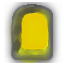
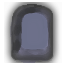
self-destructing flies

diff --git a/elements.py b/elements.py
@@ -4,10 +4,8 @@ from typing import Optional
 from boulder_dash import Game, Cave, Player
 from collections import namedtuple
 
-Vector = namedtuple('Vector', 'x y')
-
 class Element(arcade.Sprite):
-    TILE_SIZE = 64
+    TILE_SIZE = 16 # 64
     TILE_SCALE = Game.TILE_SIZE / TILE_SIZE
     DEFAULT_SPEED = 16 # squares per second
 
@@ -31,6 +29,9 @@ class Element(arcade.Sprite):
     def compute_pos(self) -> None:
         self.center_x = Element.TILE_SIZE * Element.TILE_SCALE * (self.x + 0.5)
         self.center_y = Element.TILE_SIZE * Element.TILE_SCALE * (self.y + 0.5)
+
+    def neighbor(self, ix:int, iy:int) -> Optional['Element'] :
+        return self.game.cave.at(self.x + ix, self.y + iy)
 
     def can_move(self, ix: int, iy: int)  -> bool:
         return self.game.cave.can_move(self, self.x + ix, self.y + iy)
@@ -83,7 +84,7 @@ class Ore(Element):
         self.try_roll(ix) or self.try_roll(-ix)
 
     def try_roll(self, ix: int) -> bool:
-        below = self.game.cave.at(self.x, self.y -1)
+        below = self.neighbor(0, -1)
         return (isinstance(below, Ore) or isinstance(below, Wall)) and self.can_move(ix, -1) and self.try_move(ix, 0)
 
 class Boulder(Ore):
@@ -101,9 +102,10 @@ class Diamond(Ore):
        self.game.cave.to_collect -= 1
 
     def tick(self) -> None:
-        shine = random.randint(1, 40)
-        if shine > 3: shine = 0
-        self.set_skin(shine)
+        if random.randint(0,2) == 1:
+            shine = random.randint(1, 40)
+            if shine > 3: shine = 0
+            self.set_skin(shine)
         super().tick()
 
 class Explosion(Element):
@@ -116,9 +118,9 @@ class Explosion(Element):
 class Entry(Element):
     def __init__(self, game: Game, x: int, y: int) -> None:
         super().__init__(game, x, y, 0)
-        self.add_skin(MetalWall.__name__, 0)
+        self.add_skin(Exit.__name__, 1)
         self.set_skin(0)
-        self.wait = 0.5 # seconds
+        self.wait = 0.75 # seconds
         self.player = self.game.players[self.game.cave.nb_players]
         self.game.cave.nb_players += 1
 
@@ -128,13 +130,12 @@ class Entry(Element):
 
 class Exit(Element):
     def __init__(self, game: Game, x: int, y: int) -> None:
-        super().__init__(game, x, y)
-        self.add_skin(MetalWall.__name__, 0)
-        self.opened = False ; self.set_skin(1)
+        super().__init__(game, x, y, 2)
+        self.opened = False
 
     def tick(self) -> None:
         if self.game.cave.is_complete() :
-            self.opened = True ; self.set_skin(0)
+            self.opened = True ; self.set_skin(1)
 
     def can_be_penetrated(self, by: Element) -> bool: 
         return isinstance(by, Miner) and self.opened
@@ -142,40 +143,40 @@ class Exit(Element):
     def on_destroy(self) -> None: self.game.cave.set_status(Cave.SUCCEEDED)
 
 class Character(Element):
-    def __init__(self, game: Game, x: int, y: int, n: int = 1) -> None: super().__init__(game, x, y, n)
+    def __init__(self, game: Game, x: int, y: int, n: int = 1) -> None:
+       super().__init__(game, x, y, n)
+       self.dir = (0, 0)
+
     def can_be_penetrated(self, by: Element) -> bool: return (isinstance(by, Ore) and by.moving)
     def on_destroy(self) -> None: self.game.cave.explode(self.x, self.y)
 
 class Miner(Character):
     def __init__(self, game: Game, x: int, y: int, player: Player) -> None:
         super().__init__(game, x, y)
-        self.pushing = 0
+        self.pushing = None
         self.player = player
 
     def can_be_penetrated(self, by: Element) -> bool:
-        return super().can_be_penetrated(by) or isinstance(by, Firefly)
+        return self.game.cave.status == Cave.IN_PROGRESS \
+            and super().can_be_penetrated(by) or isinstance(by, Firefly)
 
     def on_moved(self, into: Optional[Element]) -> None:
         if isinstance(into, Diamond): self.player.score += 1
-        self.pushing = 0
+        self.pushing = None
 
     def tick(self) -> None:
-        if self.player.pressed_left():  
-            if not self.try_move(-1, 0): self.try_push(-1)
-        elif self.player.pressed_right():
-            if not self.try_move(+1, 0): self.try_push(+1)
-        elif self.player.pressed_up():
-            self.try_move(0, +1)
-        elif self.player.pressed_down():
-            self.try_move(0, -1)
+        if self.game.cave.status == Cave.IN_PROGRESS:
+            self.dir = self.player.get_direction()
+            if self.dir == (0,0): return
+            if not self.try_move(*self.dir): self.try_push()
     
-    def try_push(self, ix: int) -> bool:
-        pushed = self.game.cave.at(self.x + ix, self.y)
-        if not isinstance(pushed, Boulder): return False
-        if self.pushing != ix: 
-           self.pushing = ix; self.wait = 1 / self.speed
-           return False
-        if pushed.try_move(ix, 0): return self.try_move(ix, 0)
+    def try_push(self) -> bool:
+        if self.dir == (-1,0) or self.dir == (+1,0):
+            pushed = self.neighbor(*self.dir)
+            if isinstance(pushed, Boulder):
+                if self.pushing == self.dir:
+                    if pushed.try_move(*self.dir): return self.try_move(*self.dir)
+                else: self.pushing = self.dir; self.wait = 1 / self.speed
         return False
 
     def on_destroy(self) -> None:
@@ -185,26 +186,23 @@ class Miner(Character):
 class Firefly(Character):
     def __init__(self, game: Game, x: int, y: int) -> None:
         super().__init__(game, x, y, 2)
-        self.speed /= 2 ; self.dir = Vector(-1, 0)
+        self.speed /= 2 ; self.dir = (-1, 0)
 
     def can_be_penetrated(self, by: Element) -> bool:
         return super().can_be_penetrated(by) or isinstance(by, Miner)
 
     def tick(self) -> None:
         self.next_skin()
-        # if in wide 3x3 open area, go straight
-        if self.can_move(-1,0) and self.can_move(1,0) and self.can_move(0,-1) and self.can_move(0,1) \
-           and self.can_move(-1,-1) and self.can_move(1,-1) and self.can_move(-1,1) and self.can_move(1,1):
-               self.try_move(*self.dir)
+        (ix,iy) = self.dir
+        # if adjacent to a miner, self-destruct
+        if isinstance(self.neighbor(-1,0), Miner) or isinstance(self.neighbor(+1,0), Miner) or \
+           isinstance(self.neighbor(0,-1), Miner) or isinstance(self.neighbor(0,+1), Miner):
+              self.game.cave.replace(self, None)
         # else follow the right wall...
-        elif self.try_move(self.dir.y, -self.dir.x):
-            self.dir = Vector(self.dir.y, -self.dir.x)
-        elif self.try_move(*self.dir):
-            pass # go straight
-        elif self.try_move(-self.dir.y, self.dir.x):
-            self.dir = Vector(-self.dir.y, self.dir.x)
-        elif self.try_move(-self.dir.x, -self.dir.y):
-            self.dir = Vector(-self.dir.x, -self.dir.y)
+        elif self.try_move(iy, -ix):  self.dir = (iy, -ix)
+        elif self.try_move(ix, iy):   pass # go straight
+        elif self.try_move(-iy, ix):  self.dir = (-iy, ix)
+        elif self.try_move(-ix, -iy): self.dir = (-ix, -iy)
 
 class Butterfly(Firefly):
     def __init__(self, game: Game, x: int, y: int) -> None:

diff --git a/boulder_dash.py b/boulder_dash.py
@@ -1,5 +1,5 @@
 import arcade
-from typing import Optional
+from typing import Optional, Tuple
 from elements import *
 from caves import *
 from collections import namedtuple
@@ -14,10 +14,12 @@ class Player:
             Player.Controls(arcade.key.Z, arcade.key.Q, arcade.key.S, arcade.key.D) if id == 1 else \
             Player.Controls(arcade.key.I, arcade.key.J, arcade.key.K, arcade.key.L)
     
-    def pressed_up(self) -> bool: return self.controls.up in self.game.keys
-    def pressed_left(self) -> bool: return self.controls.left in self.game.keys
-    def pressed_down(self) -> bool: return self.controls.down in self.game.keys
-    def pressed_right(self) -> bool: return self.controls.right in self.game.keys
+    def get_direction(self) -> Tuple[int,int]:
+        if self.controls.up in self.game.keys: return (0,+1)
+        if self.controls.left in self.game.keys: return (-1,0)
+        if self.controls.down in self.game.keys: return (0,-1)
+        if self.controls.right in self.game.keys: return (+1,0)
+        else: return (0,0)
 
     def kill(self) -> None:
         self.life -= 1
@@ -60,12 +62,12 @@ class Cave:
 
     def set_status(self, status) -> None:
         self.status = status
-        self.wait = 0.5 # seconds
+        self.wait = 0.25 # seconds
 
     def within_bounds(self, x: int ,y: int) -> bool:
         return x >= 0 and y >= 0 and x < Cave.WIDTH and y < Cave.HEIGHT
 
-    def at(self, x: int , y: int ) -> Optional['Element']:
+    def at(self, x: int , y: int) -> Optional['Element']:
         return self.tiles[y][x] if self.within_bounds(x,y) else None
 
     def replace(self, e1 : 'Element', e2 : Optional['Element']) -> None:
@@ -114,7 +116,7 @@ class Cave:
                         if not tile is None: tile.on_destroy()
 
 class Game(arcade.Window):
-    TILE_SIZE = 32
+    TILE_SIZE = 40 # 32
     WIDTH = TILE_SIZE * Cave.WIDTH
     HEIGHT = TILE_SIZE * (Cave.HEIGHT + 1)
     TITLE = 'Boulder Dash'
@@ -142,7 +144,9 @@ class Game(arcade.Window):
         elif key == arcade.key.NUM_SUBTRACT : self.cave.next_level(self.cave.level - 1)
         elif key == arcade.key.NUM_MULTIPLY : self.players = [ Player(self) ] ; self.cave.restart_level()
 
-    def on_key_release(self, key, modifiers): self.keys.remove(key)
+    def on_key_release(self, key, modifiers):
+       if key in self.keys: self.keys.remove(key)
+
     def on_update(self, delta_time):
         self.cave.on_update(delta_time)
 
